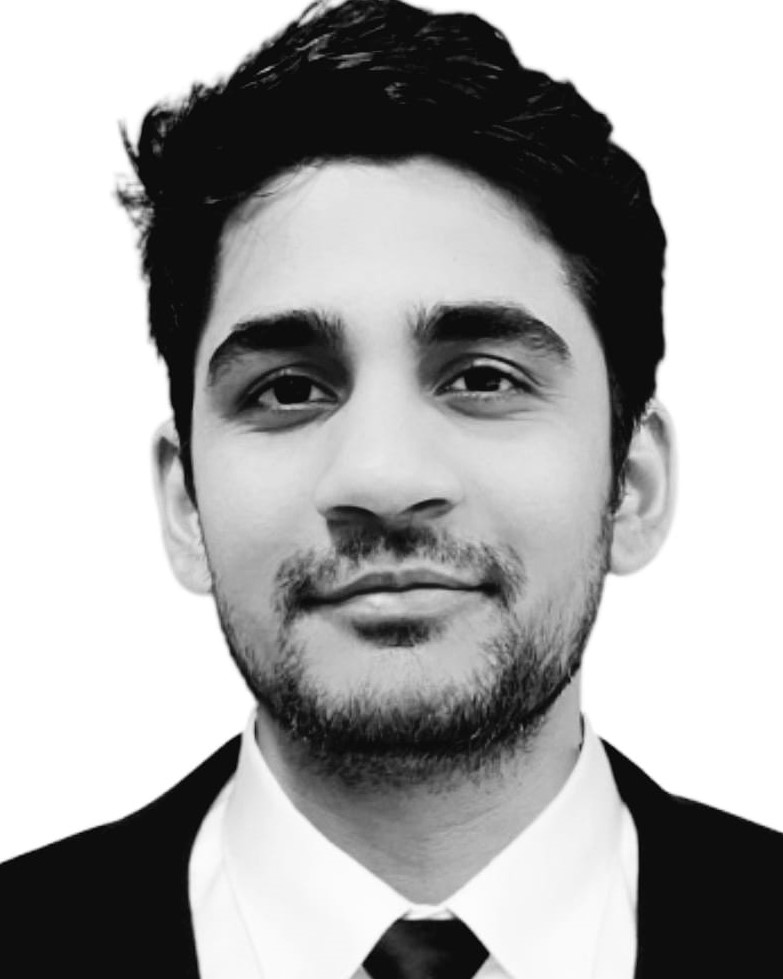
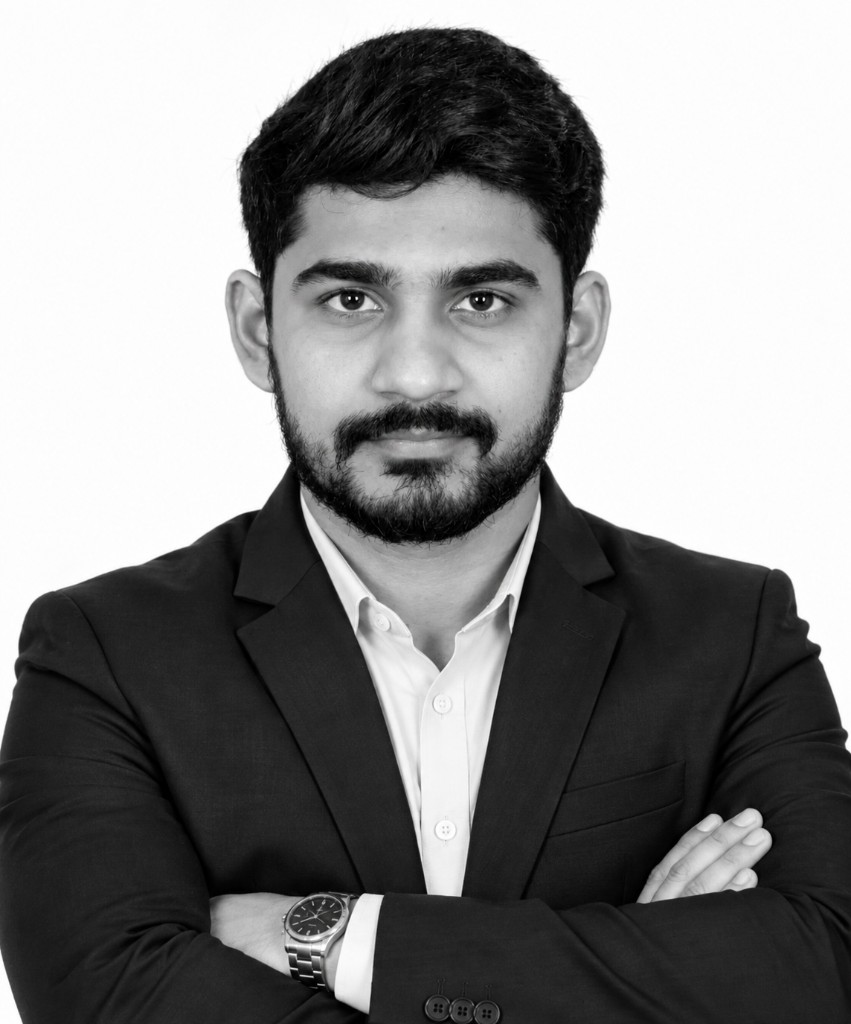
Update the site content for the current Touchstone pages.
Keep the homepage, team photos, commodity cards, navigation, and contact email in line with the latest review.

diff --git a/src/screens/HomeScreen.jsx b/src/screens/HomeScreen.jsx
@@ -4,7 +4,7 @@ import { ArrowUpRight } from 'lucide-react'
 import Ticker from '../components/Ticker.jsx'
 import SectionHeading from '../components/SectionHeading.jsx'
 import CTA from '../components/CTA.jsx'
-import { whyItems, homeFocus, companyName } from '../utils/content.js'
+import { whyItems, homeFocus, companyName, visionMission } from '../utils/content.js'
 import { images } from '../utils/images.js'
 
 export default function HomeScreen() {
@@ -25,7 +25,6 @@ export default function HomeScreen() {
         <div className="hero-grid" />
         <div className="container hero-inner">
           <div className="hero-copy">
-            <div className="eyebrow eyebrow--light">Dubai · Precious Metals · Global Trade</div>
             <h1>Your trusted partner in <em>global gold</em> &amp; bullion trading.</h1>
             <p>
               {companyName} is a precious metals trading company focused on the sourcing, trading and supply of physical gold, gold bullion and gold doré through professional, transparent and internationally aligned business practices.
@@ -34,10 +33,6 @@ export default function HomeScreen() {
               <Link className="btn btn--gold" to="/business">Explore Our Business</Link>
               <Link className="btn btn--glass" to="/contact">Contact Our Trading Desk</Link>
             </div>
-          </div>
-          <div className="hero-meta">
-            <span>TOUCHSTONE BULLION</span>
-            <strong>Trusted Gold. Global Trade.</strong>
           </div>
         </div>
         <div className="scroll-indicator" aria-hidden="true">
@@ -69,6 +64,17 @@ export default function HomeScreen() {
               </article>
             ))}
           </div>
+        </div>
+      </section>
+
+      <section className="section section--green">
+        <div className="container dual-statement">
+          {visionMission.map(([title, text]) => (
+            <article key={title} data-reveal>
+              <h2>{title}</h2>
+              <p>{text}</p>
+            </article>
+          ))}
         </div>
       </section>
 

diff --git a/src/utils/content.js b/src/utils/content.js
@@ -2,9 +2,7 @@ export const tagline = 'Trusted Gold. Global Trade.'
 
 export const companyName = 'Touchstone Bullion Gold Trading LLC, Dubai, UAE.'
 
-export const inquiryEmail = import.meta.env.PROD
-  ? 'yogeshtillu@ehealthsystems.in'
-  : 'sushantlode007@gmail.com'
+export const inquiryEmail = 'yogeshtillu@ehealthsystems.in'
 
 export const positioning = 'Gold Trading · Bullion · Precious Metals · Global Partnerships'
 
@@ -58,6 +56,10 @@ export const products = [
   { title: 'Gold Bars', image: 'productBars', position: '70% center' },
   { title: 'Gold Bullion', image: 'productBullion', position: 'center' },
   { title: 'Gold Doré', image: 'productDore', position: 'center' },
+  { title: 'Silver', image: 'productSilver', position: '22% center' },
+  { title: 'Copper', image: 'productCopper', position: 'center' },
+  { title: 'Lithium', image: 'productLithium', position: 'center' },
+  { title: 'Iron Ore', image: 'productIronOre', position: '72% 78%' },
 ]
 
 export const tradingMarkets = [

diff --git a/src/screens/AboutScreen.jsx b/src/screens/AboutScreen.jsx
@@ -4,7 +4,7 @@ import PhotoSplit from '../components/PhotoSplit.jsx'
 import SectionHeading from '../components/SectionHeading.jsx'
 import CTA from '../components/CTA.jsx'
 import { images } from '../utils/images.js'
-import { aboutCopy, visionMission, founder, team, companyName } from '../utils/content.js'
+import { aboutCopy, founder, team, companyName } from '../utils/content.js'
 
 export default function AboutScreen() {
   return (
@@ -69,17 +69,6 @@ export default function AboutScreen() {
               ))}
             </div>
           </PhotoSplit>
-        </div>
-      </section>
-
-      <section className="section section--green">
-        <div className="container dual-statement">
-          {visionMission.map(([title, text]) => (
-            <article key={title} data-reveal>
-              <h2>{title}</h2>
-              <p>{text}</p>
-            </article>
-          ))}
         </div>
       </section>
       <CTA />

diff --git a/src/utils/images.js b/src/utils/images.js
@@ -22,6 +22,10 @@ export const images = {
   productDore: asset('assets/product-dore-nuggets.jpg'),
   productRefined: asset('assets/product-refined-photo.jpg'),
   productInstitutional: asset('assets/product-institutional-photo.jpg'),
+  productLithium: asset('assets/product-lithium.jpg'),
+  productSilver: asset('assets/product-silver.jpg'),
+  productCopper: asset('assets/product-copper.jpg'),
+  productIronOre: asset('assets/product-iron-ore.jpg'),
   marketUae: asset('assets/market-uae.jpg'),
   marketAfrica: asset('assets/market-africa.jpg'),
   marketAsia: asset('assets/market-asia.jpg'),

diff --git a/src/styles.css b/src/styles.css
@@ -275,6 +275,7 @@ body.nav-open { overflow: hidden; }
   display: flex;
   align-items: center;
   justify-content: space-between;
+  flex-wrap: nowrap;
   gap: 6px;
   padding: 0;
   border-top: 0;
@@ -286,7 +287,8 @@ body.nav-open { overflow: hidden; }
   letter-spacing: .08em;
   text-transform: uppercase;
   position: relative;
-  flex: 1;
+  flex: 0 0 auto;
+  white-space: nowrap;
   text-align: center;
   padding: 10px 6px;
   border-radius: 999px;

diff --git a/src/components/Header.jsx b/src/components/Header.jsx
@@ -9,7 +9,6 @@ const nav = [
   ['Our Business', '/business'],
   ['Global Network', '/global-network'],
   ['Compliance', '/compliance'],
-  ['Partners', '/partners'],
   ['Contact', '/contact'],
 ]
 
